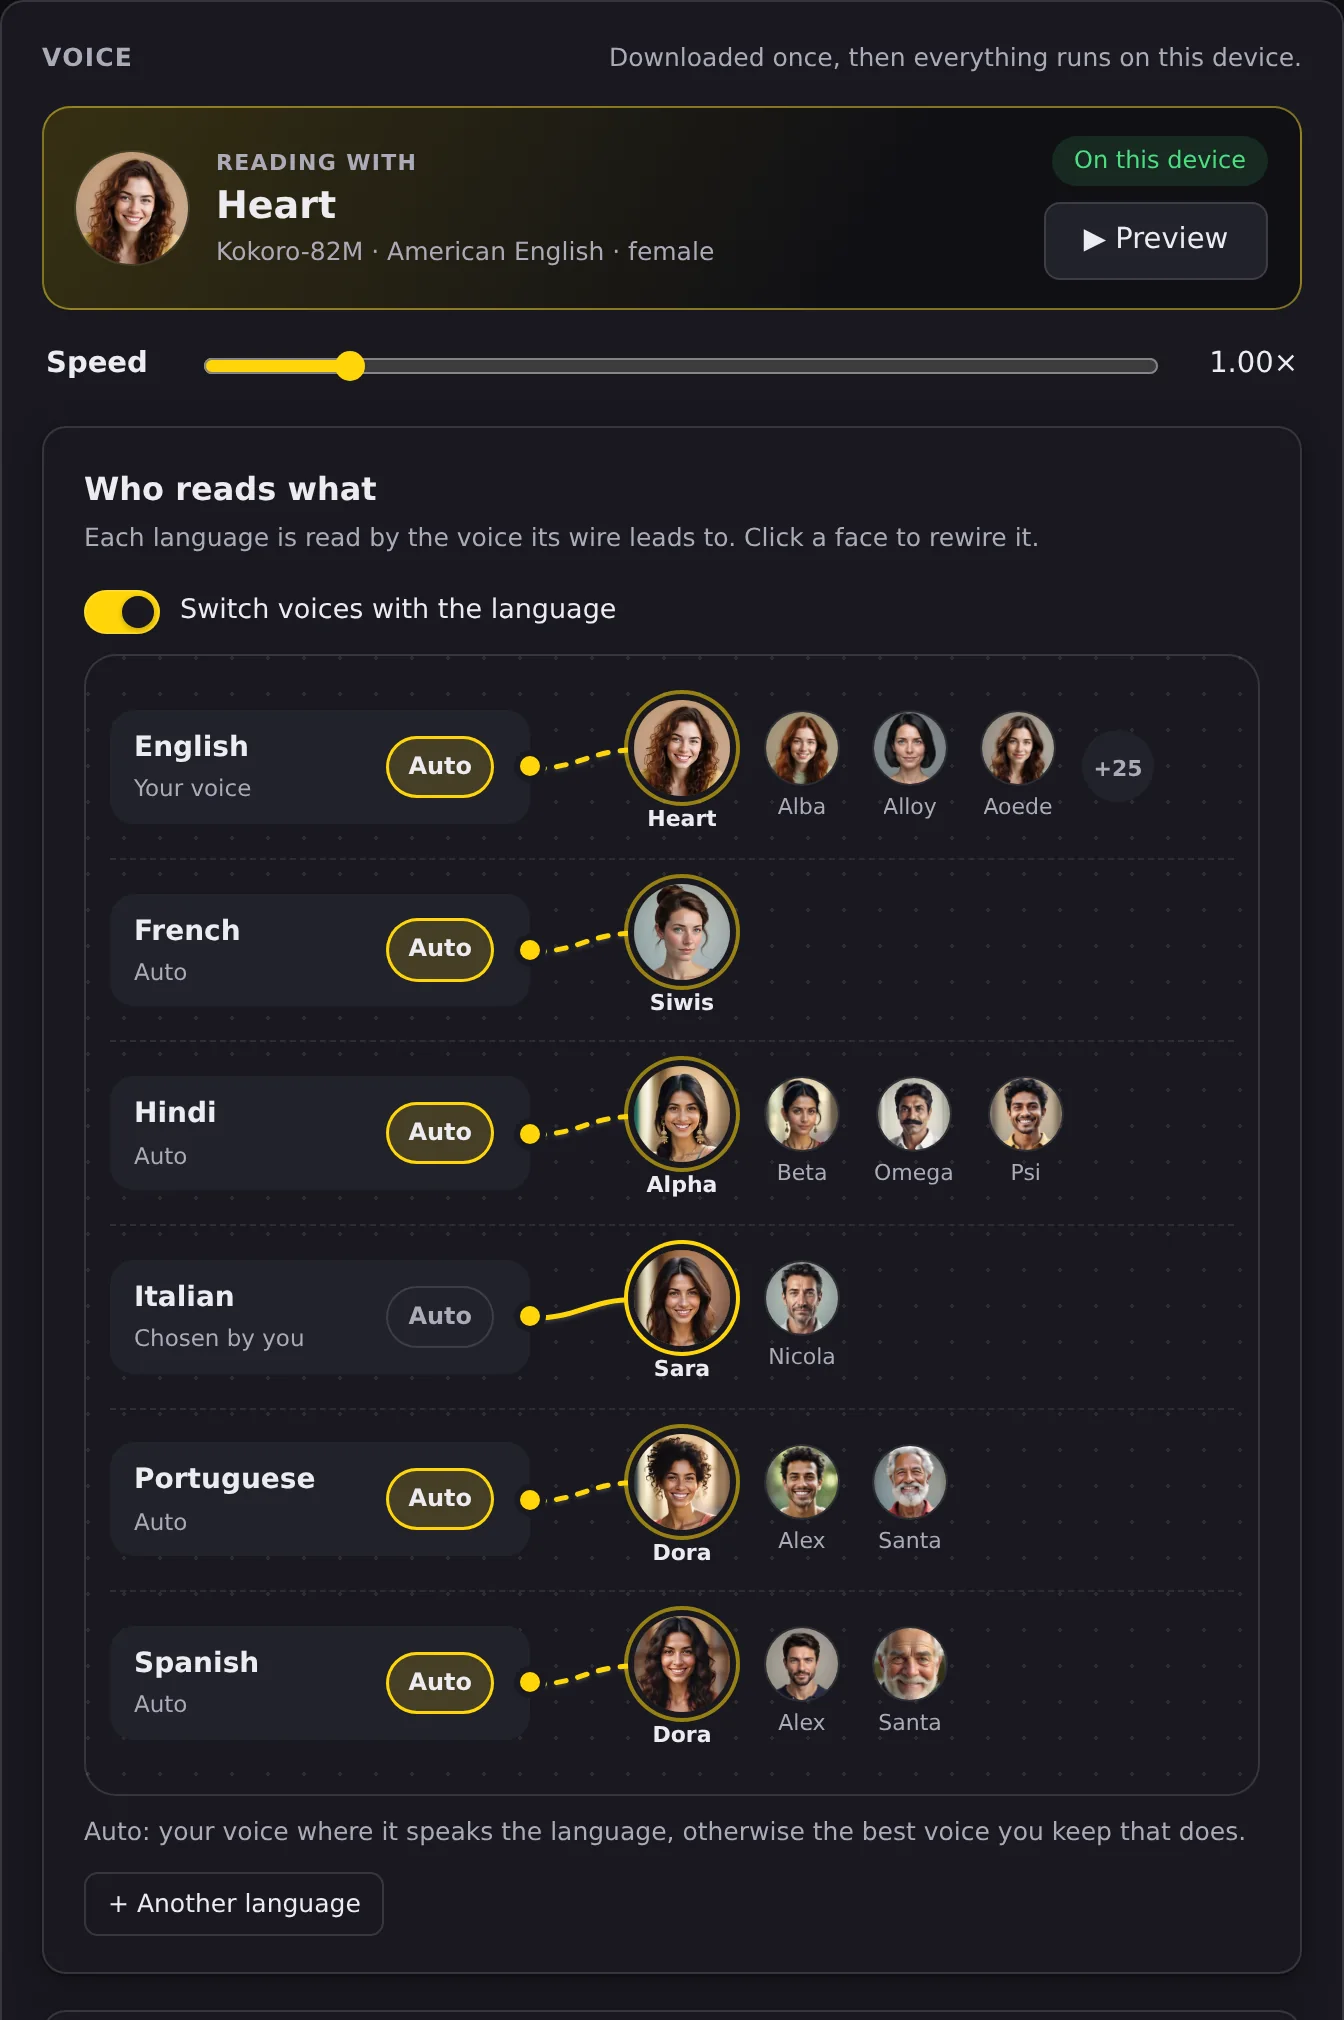
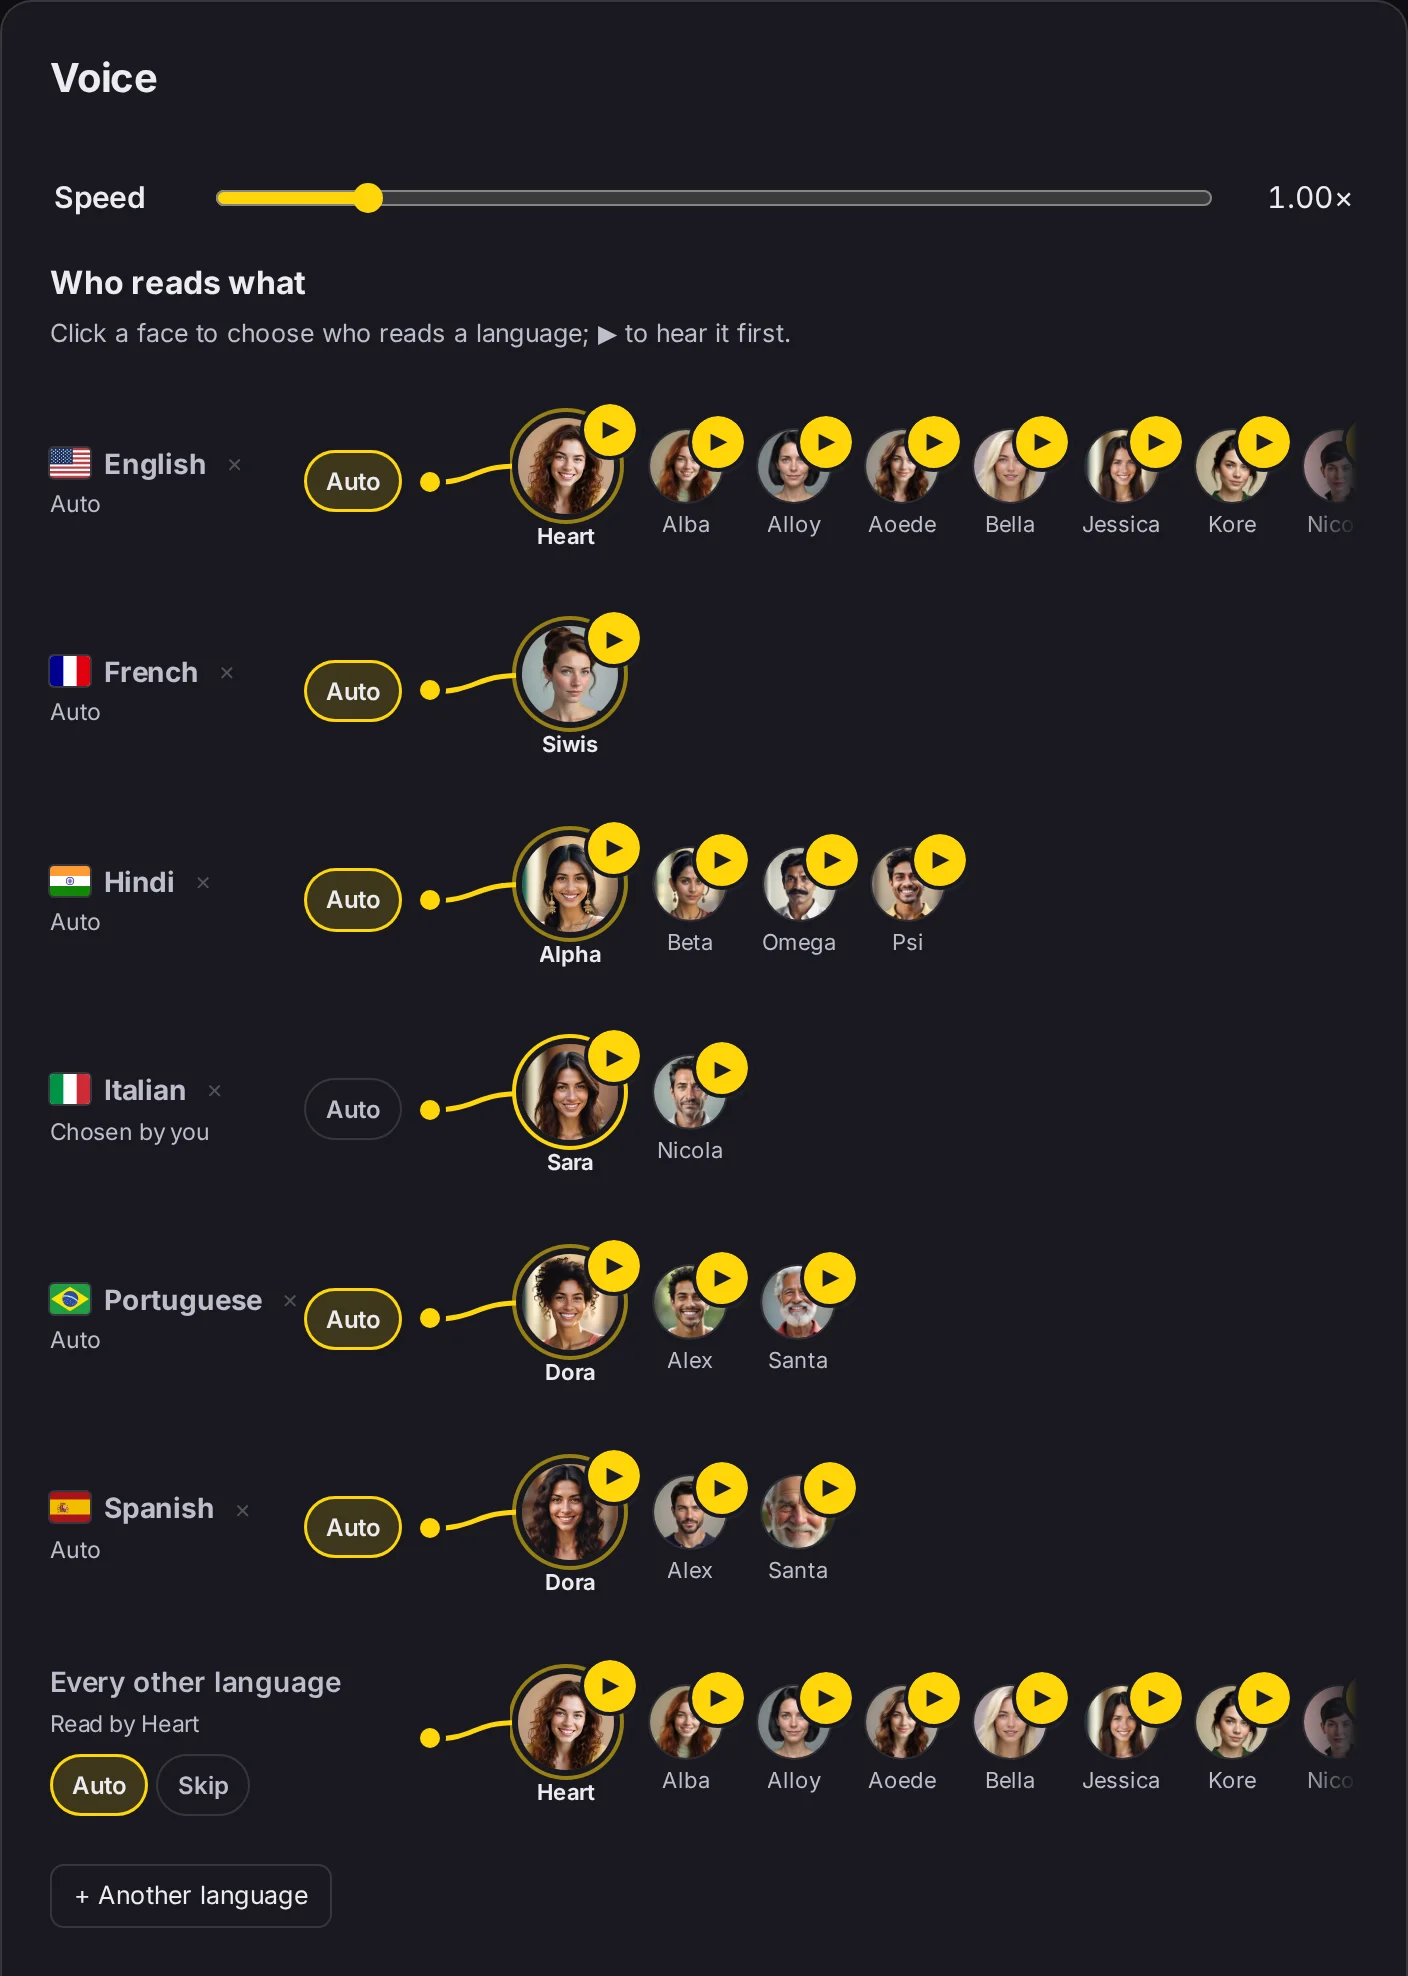
Website: the Voice page as it is now
- "Your voices, kept tidy" (putting voices away) became "Your choice, per
  language": Auto or a voice, heard first; a language can be removed and is
  then read like the rest.
- "No voice? It says so": such a language is read in English and named, or
  skipped if asked.
- Who reads what: flags, a play button on every face, the every-other-language
  row, and all 222 voices listed below (no "voices you keep", nothing folded).
- The Voice screenshots (light and dark) retaken from the current page.
- The network list and the privacy page: a hosted preview clip only for a Piper
  voice not downloaded yet; stored settings name removed languages and who reads
  every other language, not put-away voices.

Claude-Session: https://claude.ai/code/session_01XcBagAW2nZgK4QijTDGpbw

diff --git a/website/index.html b/website/index.html
@@ -648,8 +648,8 @@ footer .by b { color: var(--ink); }
       <div class="lang-points">
         <div class="callout"><h3>A voice per language</h3><p>Italian with an Italian voice, English with an English one, on the same page, without a click. Up to three voice models stay ready at once.</p></div>
         <div class="callout"><h3>Only what you can see</h3><p>Hidden translations, buttons dressed as text and closed sections are skipped. Open one while listening and it's read in its turn.</p></div>
-        <div class="callout"><h3>Your voices, kept tidy</h3><p>Choose a voice for each language once. Put away the voices you don't use, and the player only offers the ones you keep.</p></div>
-        <div class="callout"><h3>No voice? It says so</h3><p>A language you have no voice for is named, with a link to its voices or a way to skip it. Never read silently with the wrong accent.</p></div>
+        <div class="callout"><h3>Your choice, per language</h3><p>Leave a language on Auto or pick its voice once, hearing each first. Rather not hear one in its own voice? Remove it, and it's read like the rest.</p></div>
+        <div class="callout"><h3>No voice? It says so</h3><p>A language you have no voice for is read in English, and named, with a link to its voices. Or have such languages skipped.</p></div>
       </div>
       <p class="audio-note muted">The audio is Aloud's own: Kokoro's Sara and Heart reading this story in Chrome, recorded from the extension.</p>
     </div>
@@ -679,12 +679,12 @@ footer .by b { color: var(--ink); }
         <div class="copy">
           <p class="eyebrow">Settings that explain themselves</p>
           <h2>Who reads what, drawn instead of listed.</h2>
-          <p>Every language you have a voice for, wired to the face that reads it. Click another face and the wire swings over. Below it, only the voices you keep, each with a preview, while the full catalogue of 222 stays folded until you want it.</p>
+          <p>Every language you have a voice for, wired to the face that reads it, with a flag. Click another face and the wire swings over; press its ▶ to hear it first. The last row says who reads every other language. All 222 voices are listed below it.</p>
         </div>
         <figure class="shot">
           <picture>
             <source srcset="assets/shots/voice-dark.webp" media="(prefers-color-scheme: dark)">
-            <img src="assets/shots/voice-light.webp" width="1344" height="2020" loading="lazy" alt="Aloud's voice settings: Heart is the voice reading, and a board titled Who reads what wires English to Heart, French to Siwis, Hindi to Alpha, Italian to Sara, Portuguese and Spanish to Dora, each beside the other voices that could read it.">
+            <img src="assets/shots/voice-light.webp" width="1408" height="1976" loading="lazy" alt="Aloud's voice settings: a board titled Who reads what, each language with its flag wired to the face that reads it — English to Heart, French to Siwis, Hindi to Alpha, Italian to Sara, Portuguese and Spanish to Dora — beside the other voices that could, each with a play button; a last row says every other language is read by Heart.">
           </picture>
         </figure>
       </div>
@@ -761,7 +761,7 @@ footer .by b { color: var(--ink); }
           <h3>Goes out only when you ask</h3>
           <ul>
             <li>Downloading a voice, once, from Hugging Face</li>
-            <li>Previewing a Piper voice: a short hosted clip</li>
+            <li>Previewing a Piper voice you haven't downloaded: a short hosted clip</li>
             <li>Fetching a page or PDF you told Aloud to read or queue</li>
           </ul>
           <p class="note">A saved article's images stay unfetched until you press <b>Load images</b>, so reopening one tells nobody you're reading it. Aloud only runs on a site when you start it there, or on sites you list yourself.</p>

diff --git a/website/privacy.html b/website/privacy.html
@@ -84,7 +84,7 @@ footer { border-top: 1px solid var(--rule); padding-block: 28px 40px; font-size:
     <li>The video speed you chose on each site, if you use the video speed control</li>
     <li>Marks you make on PDFs</li>
     <li>Listening statistics: how long you listened and how many words, by day, site and language</li>
-    <li>Which voice reads each language, and the voices you put away</li>
+    <li>Which voice reads each language, which languages you removed, and who reads every other language</li>
     <li>The voice models you download</li>
   </ul>
   <p>They stay until you delete them. Aloud's Library and Settings let you clear your history, statistics, reading positions and site speeds, delete notes, and remove downloaded voices. Uninstalling Aloud removes all of it. You can also export everything to a backup file, which stays wherever you save it.</p>
@@ -92,7 +92,7 @@ footer { border-top: 1px solid var(--rule); padding-block: 28px 40px; font-size:
   <h2>When Aloud uses the network</h2>
   <p>Only in these cases, and only when you start them:</p>
   <ul>
-    <li><strong>Downloading a voice.</strong> Voice models, and the short preview clips in Settings, come from <a href="https://huggingface.co/">Hugging Face</a> (huggingface.co and its download servers). Like any website, Hugging Face receives the technical details of the request, such as your IP address, under <a href="https://huggingface.co/privacy">its own privacy policy</a>. Aloud sends it nothing about you or what you read.</li>
+    <li><strong>Downloading a voice.</strong> Voice models, and the short preview clips of voices you have not downloaded yet, come from <a href="https://huggingface.co/">Hugging Face</a> (huggingface.co and its download servers). Like any website, Hugging Face receives the technical details of the request, such as your IP address, under <a href="https://huggingface.co/privacy">its own privacy policy</a>. Aloud sends it nothing about you or what you read.</li>
     <li><strong>Fetching a page you asked for.</strong> When you add a link to your reading queue, or open a PDF from the web, Aloud downloads it directly from that site, as your browser would.</li>
     <li><strong>Images in saved articles.</strong> A saved article's images, audio and video stay unloaded until you press <strong>Load images</strong>, and are then loaded from the site they came from.</li>
   </ul>
